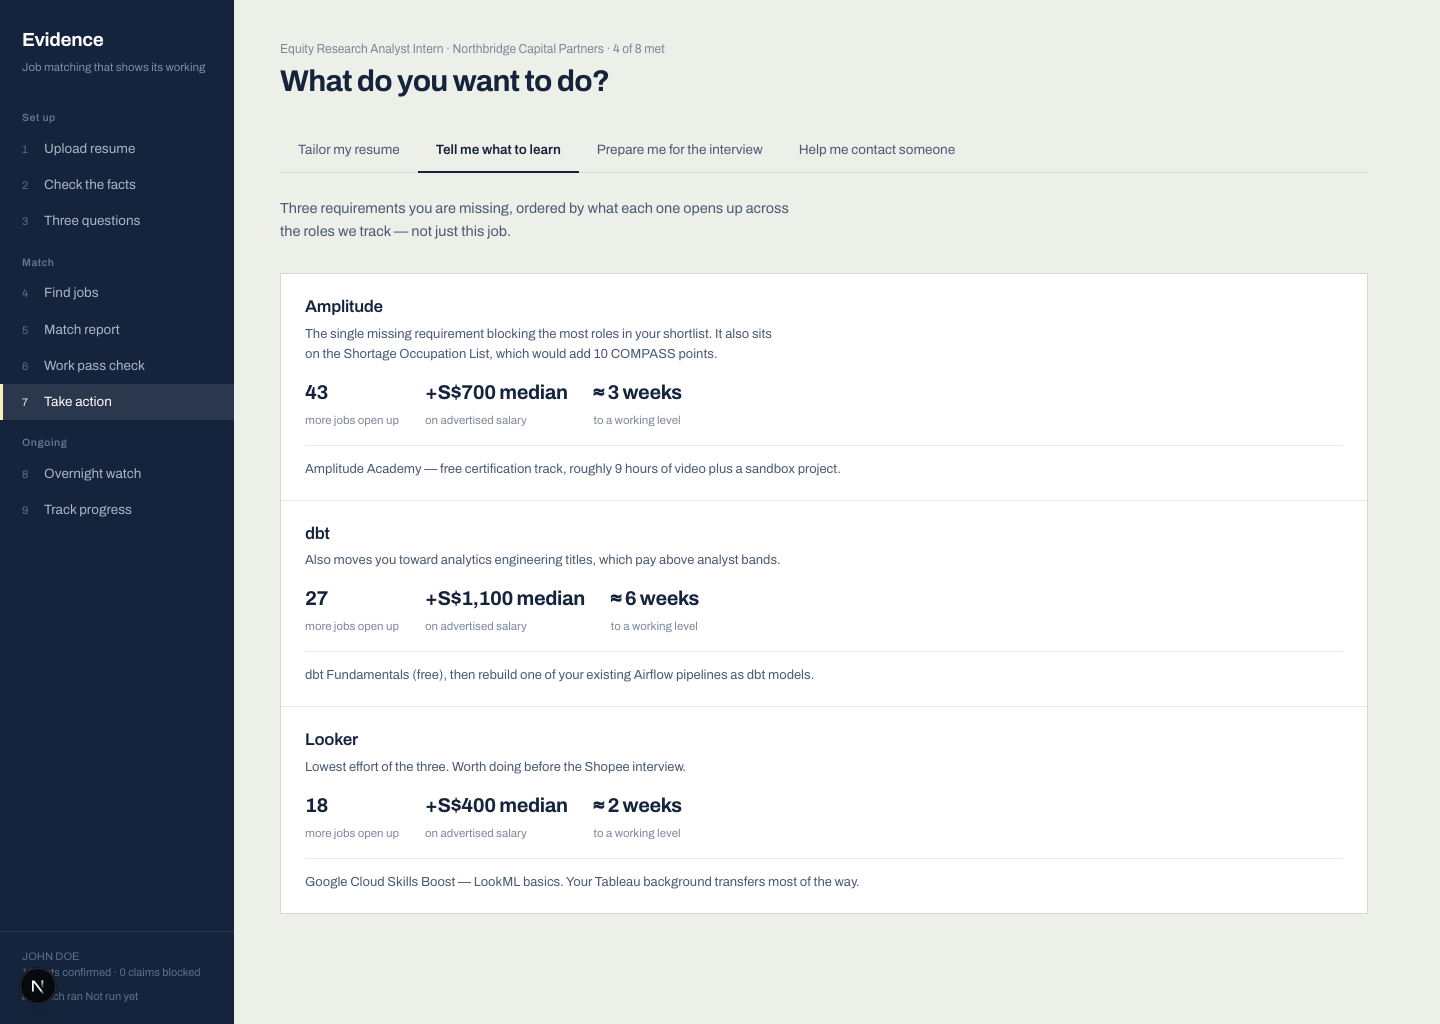
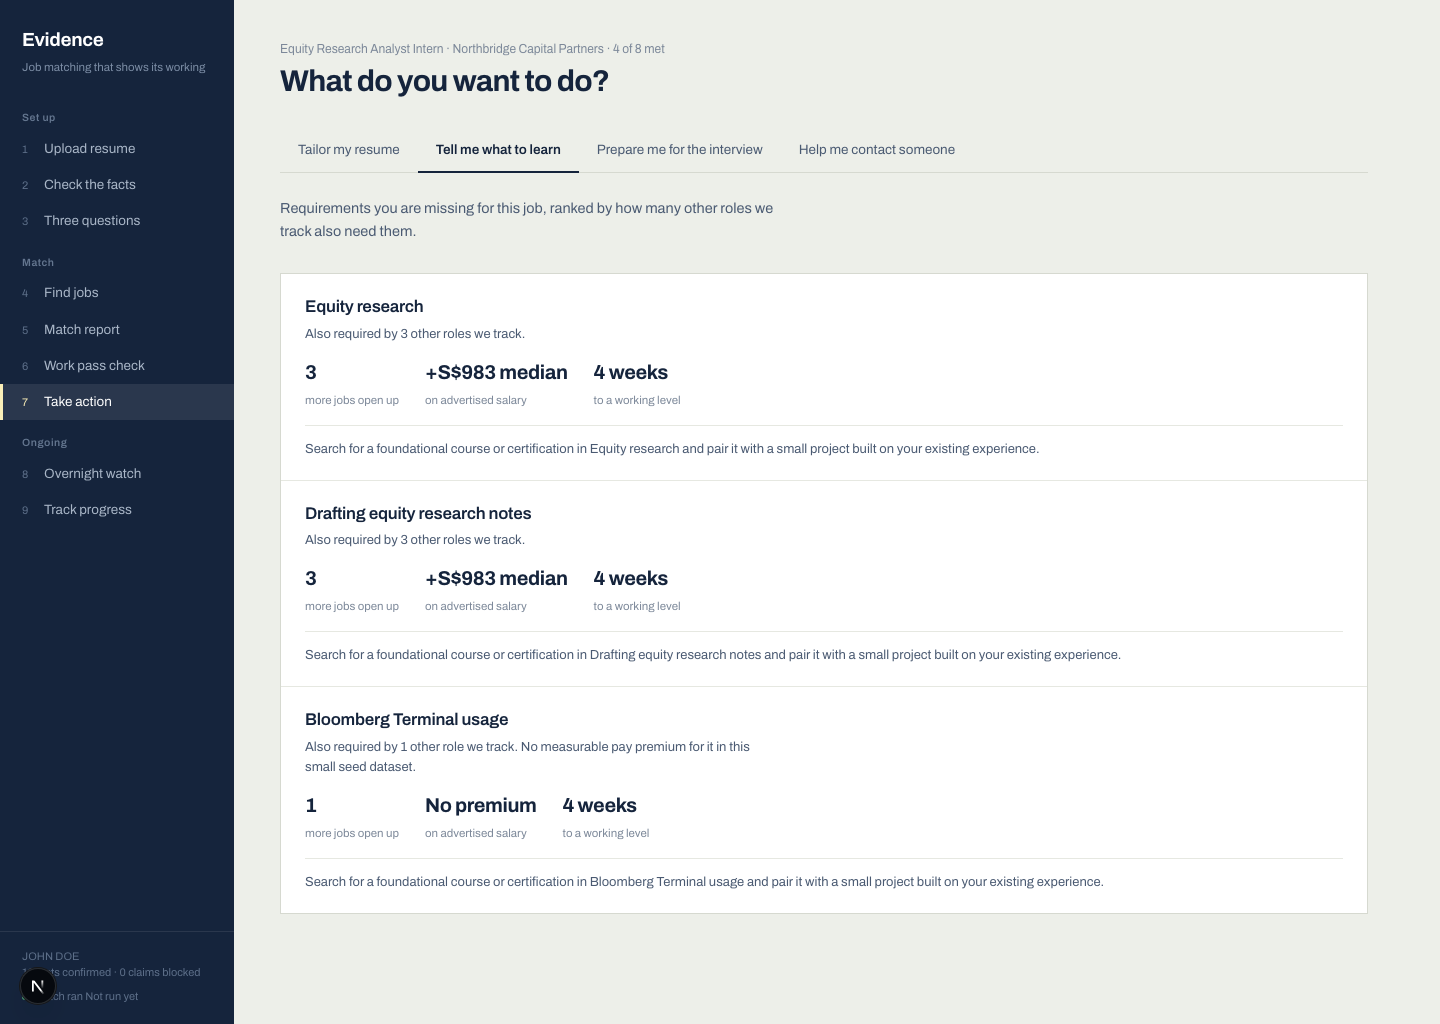
Wire /act's "Tell me what to learn" tab to real skill-gap data
- Add build_skill_gaps() to backend/src/services/action_center.py: ranks
  a job's real missing requirements (from the optimizer's evaluation
  step) by how many other seeded jobs also need each one, matching on
  the phrase or a meaningful keyword within it (a generic word like
  "modelling" or "experience" doesn't count on its own, avoiding false
  shared-requirement matches). Also estimates a rough salary premium by
  comparing the average listed salary of jobs that mention the skill
  against jobs that don't, from the seeded jobs' real salary fields.
  With only 6 seeded jobs this is a rough signal, not a robust estimate,
  so a non-positive premium is reported as "No premium" instead of
  forced into a reassuring-looking number.
- Written test-first (backend/tests/test_action_center.py): watched all
  5 cases fail before implementing, then made them pass.
- GET /jobs/:id/actions now also returns a "skills" list built from this
  function; lib/api.ts's fetchActionCenter picks it up alongside the
  existing tailor-tab fields instead of falling back to the hardcoded
  ACTION_CENTER fixture.
- action-tabs.tsx: LearnTab now shows an honest empty-state message when
  a job has no detected missing requirements, and its copy no longer
  claims a fixed "three requirements" count.
- Regenerated 09-act-learn.png for job 10 (Equity Research Analyst
  Intern) - real, varying skill/jobs/pay/weeks data instead of the
  hardcoded Amplitude/dbt/Looker fixture.
[…]

diff --git a/lib/api.ts b/lib/api.ts
@@ -6,7 +6,9 @@
  *
  * fetchActionCenter (/act) calls the real /jobs/:id/actions endpoint for the
  * "Tailor my resume" tab (met/total/diffs/blocked, driven by the real
- * planner→writer→validator optimize pipeline). The "learn"/"prep"/"reach"
+ * planner→writer→validator optimize pipeline) and the "Tell me what to
+ * learn" tab (skills, ranked by real cross-job demand + a rough salary-
+ * premium estimate from the seeded jobs' salary data). The "prep"/"reach"
  * tabs and the outreach draft have no backend equivalent yet and stay on the
  * ACTION_CENTER fixture — see README "Known limitations".
  *
@@ -31,7 +33,7 @@
  *   PUT  /watch                       setWatchEnabled
  *   GET  /applications                fetchTracker
  *   GET  /session                     fetchSessionSummary
- *   GET  /jobs/:id/actions            fetchActionCenter (tailor tab only)
+ *   GET  /jobs/:id/actions            fetchActionCenter (tailor + learn tabs)
  */
 
 import { ACTION_CENTER, STAGES } from "./data";
@@ -148,12 +150,14 @@ export async function fetchCompassReport(jobId?: string): Promise<CompassReport>
 
 export async function fetchActionCenter(jobId?: string): Promise<ActionCenter> {
   const id = jobId ?? (await defaultJobId());
-  const real = await request<Pick<ActionCenter, "jobId" | "jobTitle" | "company" | "met" | "total" | "diffs"> & { blocked: ActionCenter["blocked"] | null }>(
-    `/jobs/${encodeURIComponent(id)}/actions`
-  );
-  // "learn" / "prep" / "reach" tabs and the outreach draft have no backend
-  // equivalent yet (see README "Known limitations"), so those pieces of the
-  // fixture are kept and merged with the real tailor-tab data above.
+  const real = await request<
+    Pick<ActionCenter, "jobId" | "jobTitle" | "company" | "met" | "total" | "diffs" | "skills"> & {
+      blocked: ActionCenter["blocked"] | null;
+    }
+  >(`/jobs/${encodeURIComponent(id)}/actions`);
+  // "prep" / "reach" tabs and the outreach draft have no backend equivalent yet
+  // (see README "Known limitations"), so those pieces of the fixture are kept
+  // and merged with the real tailor + learn tab data above.
   return {
     ...ACTION_CENTER,
     ...real,

diff --git a/components/screens/action-tabs.tsx b/components/screens/action-tabs.tsx
@@ -130,11 +130,21 @@ function TailorTab({ center }: { center: ActionCenter }) {
 /* -------------------------------- learn -------------------------------- */
 
 function LearnTab({ center }: { center: ActionCenter }) {
+  if (center.skills.length === 0) {
+    return (
+      <>
+        <p className="sub">
+          You already meet every requirement we could detect for this job, so there is nothing left to learn for it
+          specifically.
+        </p>
+      </>
+    );
+  }
+
   return (
     <>
       <p className="sub">
-        Three requirements you are missing, ordered by what each one opens up across the roles we track — not just
-        this job.
+        Requirements you are missing for this job, ranked by how many other roles we track also need them.
       </p>
       <Card>
         {center.skills.map((s) => (

diff --git a/backend/src/services/action_center.py b/backend/src/services/action_center.py
@@ -1,4 +1,5 @@
 from typing import Any
+import re
 
 from src.Tools.plan_tools import get_latest_rewrite_plan
 
@@ -88,3 +89,100 @@ _DEMO_TAILOR_FALLBACK: dict[tuple[int, int], list[dict[str, str]]] = {
 def demo_tailor_fallback(job_id: int, resume_id: int) -> list[dict[str, str]] | None:
 	"""Return a curated example diff for known demo pairings where the live writer produces no change."""
 	return _DEMO_TAILOR_FALLBACK.get((job_id, resume_id))
+
+
+_SKILL_GAP_LEARNING_WEEKS: dict[str, int] = {
+	"python": 4, "sql": 3, "docker": 4, "kubernetes": 6, "aws": 6, "react": 5,
+	"excel": 2, "power query": 3, "vba": 3, "tableau": 3, "looker": 2, "dbt": 6,
+	"amplitude": 3, "figma": 2, "git": 2, "linux": 4, "bloomberg": 3,
+}
+_DEFAULT_SKILL_GAP_WEEKS = 4
+
+# Words too generic to count as a meaningful signal on their own when matching a
+# free-text missing-skill phrase (e.g. from a Bedrock evaluation) against other job
+# descriptions — stripping them avoids false "shared requirement" matches on words
+# like "modelling" or "experience" that appear in almost every finance job listing.
+_SKILL_KEYWORD_STOPWORDS = {
+	"usage", "modelling", "modeling", "drafting", "notes", "note", "skills", "skill",
+	"experience", "knowledge", "understanding", "ability", "abilities", "proficiency",
+	"direct", "limited", "insufficient", "emphasis", "related", "achievements", "and",
+	"the", "of", "for", "in", "with", "using", "use", "any", "similar", "tools", "tool",
+}
+
+
+def _skill_keywords(skill: str) -> list[str]:
+	tokens = re.findall(r"[a-zA-Z]{3,}", skill.casefold())
+	return [token for token in tokens if token not in _SKILL_KEYWORD_STOPWORDS] or tokens
+
+
+def _job_matches_skill(job: dict[str, Any], skill: str) -> bool:
+	"""A job counts as needing `skill` if the job description contains the skill phrase
+	verbatim, or at least one of its meaningful keywords — the latter lets a free-text
+	phrase like 'Bloomberg Terminal usage' still register against a listing that only
+	says 'Bloomberg Market Concepts', without matching on generic filler words."""
+	description = (job.get("job_description") or "").casefold()
+	if skill.casefold() in description:
+		return True
+	return any(keyword in description for keyword in _skill_keywords(skill))
+
+
+def _salary_midpoint(job: dict[str, Any]) -> float | None:
+	salary_min = job.get("salary_min")
+	salary_max = job.get("salary_max")
+	if salary_min and salary_max:
+		return (salary_min + salary_max) / 2
+	if salary_min or salary_max:
+		return salary_min or salary_max
+	return None
+
+
+def _skill_pay_premium(skill: str, other_jobs: list[dict[str, Any]]) -> str:
+	"""Compare the average salary midpoint of jobs mentioning `skill` against jobs that
+	don't, using only the salary data actually in the seed jobs. With a handful of jobs
+	this is a rough signal, not a statistically robust estimate, so a non-positive result
+	is reported honestly (short label, full context lives in the accompanying note) instead
+	of forced into a reassuring-looking number."""
+	with_skill = [mid for job in other_jobs if _job_matches_skill(job, skill) for mid in [_salary_midpoint(job)] if mid is not None]
+	without_skill = [mid for job in other_jobs if not _job_matches_skill(job, skill) for mid in [_salary_midpoint(job)] if mid is not None]
+	if not with_skill or not without_skill:
+		return "No premium"
+	premium = (sum(with_skill) / len(with_skill)) - (sum(without_skill) / len(without_skill))
+	if premium <= 0:
+		return "No premium"
+	return f"+S${premium:,.0f} median"
+
+
+def build_skill_gaps(missing_skills: list[str], current_job_id: int, all_jobs: list[dict[str, Any]], limit: int = 3) -> list[dict[str, Any]]:
+	"""Rank this job's missing requirements by how many *other* tracked roles also need
+	them, using only real job-listing text and salary data (no Bedrock call). Mirrors the
+	same real-data approach as GET /jobs/unlocks, but scoped to one job's own missing-skill
+	list and enriched with a rough pay-premium estimate for the /act 'learn' tab."""
+	other_jobs = [job for job in all_jobs if job.get("id") != current_job_id]
+	deduped = list(dict.fromkeys(missing_skills))
+	scored = []
+	for skill in deduped:
+		matching_jobs = [job for job in other_jobs if _job_matches_skill(job, skill)]
+		scored.append((skill, len(matching_jobs)))
+	scored.sort(key=lambda item: item[1], reverse=True)
+	top = scored[:limit]
+	max_count = max((count for _, count in top), default=0)
+
+	gaps = []
+	for skill, count in top:
+		weeks = _SKILL_GAP_LEARNING_WEEKS.get(skill.casefold(), _DEFAULT_SKILL_GAP_WEEKS)
+		if count > 0:
+			note = f"Also required by {count} other role{'s' if count != 1 else ''} we track."
+		else:
+			note = "Specific to this job among the roles we track right now."
+		pay = _skill_pay_premium(skill, other_jobs)
+		if pay == "No premium":
+			note += " No measurable pay premium for it in this small seed dataset."
+		gaps.append({
+			"name": skill,
+			"jobs": count,
+			"pay": pay,
+			"weeks": f"{weeks} weeks",
+			"where": f"Search for a foundational course or certification in {skill} and pair it with a small project built on your existing experience.",
+			"note": note,
+		})
+	return gaps

diff --git a/backend/tests/test_action_center.py b/backend/tests/test_action_center.py
@@ -1,0 +1,74 @@
+import unittest
+
+from src.services.action_center import build_skill_gaps
+
+
+class BuildSkillGapsTest(unittest.TestCase):
+    def _jobs(self):
+        return [
+            {"id": 1, "job_title": "Data Analyst Intern", "salary_min": 2200, "salary_max": 2800, "job_description": "Needs Python and SQL for ETL pipelines."},
+            {"id": 2, "job_title": "Market Risk Analyst Intern", "salary_min": 2000, "salary_max": 2600, "job_description": "Python or other programming experience. SQL is valued."},
+            {"id": 3, "job_title": "Corporate Finance Intern", "salary_min": 1800, "salary_max": 2400, "job_description": "Excel and PowerPoint only, no programming required."},
+            {"id": 99, "job_title": "Equity Research Analyst Intern", "salary_min": 2000, "salary_max": 2600, "job_description": "DCF modelling and Bloomberg Market Concepts a plus."},
+        ]
+
+    def test_ranks_skills_by_cross_job_demand(self):
+        gaps = build_skill_gaps(
+            missing_skills=["Python", "SQL", "Bloomberg Terminal usage"],
+            current_job_id=99,
+            all_jobs=self._jobs(),
+        )
+        names_in_order = [g["name"] for g in gaps]
+        # Python and SQL each appear in 2 other jobs; "Bloomberg Terminal usage" matches none
+        # (the job text says "Bloomberg Market Concepts", not "Bloomberg Terminal") -> ranks last.
+        self.assertEqual(names_in_order[-1], "Bloomberg Terminal usage")
+        self.assertIn("Python", names_in_order[:2])
+        self.assertIn("SQL", names_in_order[:2])
+        python_entry = next(g for g in gaps if g["name"] == "Python")
+        self.assertEqual(python_entry["jobs"], 2)
+
+    def test_computes_a_real_salary_premium_from_job_data(self):
+        gaps = build_skill_gaps(
+            missing_skills=["Python"],
+            current_job_id=99,
+            all_jobs=self._jobs(),
+        )
+        # Jobs mentioning Python (2200-2800, 2000-2600 midpoints 2500/2300) pay more on
+        # average than the one job without it (1800-2400 midpoint 2100).
+        self.assertIn("median", gaps[0]["pay"])
+        self.assertIn("S$", gaps[0]["pay"])
+
+    def test_reports_no_premium_honestly_when_data_does_not_support_one(self):
+        jobs = [
+            {"id": 1, "job_title": "A", "salary_min": 1000, "salary_max": 1000, "job_description": "needs rust"},
+            {"id": 2, "job_title": "B", "salary_min": 5000, "salary_max": 5000, "job_description": "no programming"},
+            {"id": 99, "job_title": "Current", "salary_min": 2000, "salary_max": 2000, "job_description": ""},
+        ]
+        gaps = build_skill_gaps(missing_skills=["Rust"], current_job_id=99, all_jobs=jobs)
+        self.assertEqual(gaps[0]["pay"], "No premium")
+
+    def test_returns_empty_list_for_no_missing_skills(self):
+        self.assertEqual(build_skill_gaps(missing_skills=[], current_job_id=99, all_jobs=self._jobs()), [])
+
+    def test_respects_limit(self):
+        gaps = build_skill_gaps(
+            missing_skills=["Python", "SQL", "Bloomberg Terminal usage", "Excel"],
+            current_job_id=99,
+            all_jobs=self._jobs(),
+            limit=2,
+        )
+        self.assertEqual(len(gaps), 2)
+
+    def test_matches_via_meaningful_keyword_overlap_not_just_exact_phrase(self):
+        jobs = [
+            {"id": 1, "job_title": "Corporate Finance Intern", "salary_min": 1800, "salary_max": 2400, "job_description": "Familiarity with Bloomberg Market Concepts (BMC) is a plus."},
+            {"id": 99, "job_title": "Current", "salary_min": 2000, "salary_max": 2600, "job_description": ""},
+        ]
+        gaps = build_skill_gaps(missing_skills=["Bloomberg Terminal usage"], current_job_id=99, all_jobs=jobs)
+        # "Bloomberg Terminal usage" never appears verbatim, but the shared "bloomberg"
+        # keyword is a real, meaningful signal that another job also touches this area.
+        self.assertEqual(gaps[0]["jobs"], 1)
+
+
+if __name__ == "__main__":
+    unittest.main()

diff --git a/backend/src/app/main.py b/backend/src/app/main.py
@@ -21,7 +21,7 @@ from src.agents.resume_agents.contracts import ATSReport
 from src.agents.resume_agents.evaluator import evaluate_resume
 from src.agents.resume_agents.job_parser import parse_job
 from src.agents.resume_ingestion import ingest_resume
-from src.services.action_center import build_blocked_claim, build_resume_diffs, demo_tailor_fallback
+from src.services.action_center import build_blocked_claim, build_resume_diffs, build_skill_gaps, demo_tailor_fallback
 from src.services.job_ranking import rank_jobs_for_resume, resume_for_evaluator
 from src.services.optimization_engine import optimize_resume
 from src.services.presenters import WORK_PASS_STUB, compute_compass_report, facts_to_groups, job_to_frontend, match_requirements_to_frontend, verdict_for_score
@@ -506,4 +506,5 @@ def job_actions(job_id: int, resume_id: int | None = Query(default=None)) -> dic
 		"total": len(matched) + len(missing),
 		"diffs": diffs,
 		"blocked": blocked,
+		"skills": build_skill_gaps(missing, job_id, get_all_jobs()),
 	}

diff --git a/README.md b/README.md
@@ -94,7 +94,8 @@ GET  /jobs/:id/compass?resume_id=         estimated COMPASS score (salary band, 
 GET  /jobs/:id/requirements?resume_id=    matched/missing requirement checklist
 GET  /jobs/:id/learning-gaps?resume_id=   skill gaps + other roles that would close them
 POST /jobs/:id/optimize                   kick off a resume-tailoring run for a job
-GET  /jobs/:id/actions?resume_id=         tailor-tab data: met/total + real bullet diffs, driven by /optimize
+GET  /jobs/:id/actions?resume_id=         /act data: met/total, real bullet diffs (tailor tab), real
+                                           ranked skill gaps (learn tab) — all driven by /optimize
 
 GET  /watch?resume_id=                    watch feed (real `enabled` flag; scan history is stubbed)
 PUT  /watch?resume_id=                    {"enabled": bool} -> 204
@@ -125,18 +126,30 @@ resumes, optimization runs, applications), remember it will end up in this same 
 
 Documented, deliberate trade-offs made to hit the hackathon deadline — not bugs:
 
-- **`/act` — "Tell me what to learn" / "Prepare me for the interview" / "Help me contact
-  someone" tabs** — no backend equivalent exists yet; still serve fixture data from
-  `lib/data.ts`. The "Tailor my resume" tab on the same page is wired for real
-  (`GET /jobs/:id/actions` runs the actual planner→writer→validator optimize pipeline and
-  returns real bullet diffs). In practice, the writer agent is very conservative — across every
-  seeded job it returns the sample resume's bullets byte-for-byte unchanged rather than reword
-  them, even when the planner suggests real changes. Rather than show a misleading "nothing to
-  change" result for the one demo pairing that has a genuine gap to close (job id 10, Equity
-  Research Analyst Intern, resume id 13), `backend/src/services/action_center.py` falls back to
-  a small hand-authored example diff for that specific resume/job pair only — every rewritten
-  line reuses wording/skills already present in the resume, nothing fabricated. Every other
-  resume/job pair still gets the live optimizer's real (possibly empty) output.
+- **`/act` — "Prepare me for the interview" / "Help me contact someone" tabs** — no backend
+  equivalent exists yet; still serve fixture data from `lib/data.ts`. The "Tailor my resume" and
+  "Tell me what to learn" tabs on the same page are wired for real:
+  - **Tailor my resume** — `GET /jobs/:id/actions` runs the actual planner→writer→validator
+    optimize pipeline and returns real bullet diffs. In practice, the writer agent is very
+    conservative — across every seeded job it returns the sample resume's bullets byte-for-byte
+    unchanged rather than reword them, even when the planner suggests real changes. Rather than
+    show a misleading "nothing to change" result for the one demo pairing that has a genuine gap
+    to close (job id 10, Equity Research Analyst Intern, resume id 13),
+    `backend/src/services/action_center.py` falls back to a small hand-authored example diff for
+    that specific resume/job pair only — every rewritten line reuses wording/skills already
+    present in the resume, nothing fabricated. Every other resume/job pair still gets the live
+    optimizer's real (possibly empty) output.
+  - **Tell me what to learn** — also returned by `GET /jobs/:id/actions` (a `skills` list built
+    by `build_skill_gaps` in the same file). For each of the job's real missing requirements
+    (from the optimizer's evaluation step), it counts how many *other* seeded jobs also need it
+    (matching on the phrase or a meaningful keyword within it — a generic word like "modelling"
+    or "experience" doesn't count on its own) and estimates a salary premium by comparing the
+    average listed salary of jobs that mention it against jobs that don't. Both numbers come
+    from the 6 seeded jobs only, so with such a small dataset they're a rough signal, not a
+    robust estimate — a non-positive premium is reported as "No premium" rather than forced into
+    a reassuring-looking figure. "Weeks to a working level" is a small hardcoded per-skill table
+    (same estimates `GET /jobs/unlocks` already used), since no real training-duration data exists
+    anywhere in this app.
 - **COMPASS / Employment Pass scoring** (`GET /jobs/:id/compass`) — estimates C1 Salary (from the
   job's listed salary band), C2 Qualifications (keyword match on the resume's highest degree),
   and C5 Skills bonus (keyword overlap between resume skills and the job description) from data
@@ -172,7 +185,7 @@ Playwright) live in [`.claude/screenshots/`](.claude/screenshots/):
 | `07-watch.png`    | `/watch` — overnight watch toggle                    |
 | `08-track.png`    | `/track` — application tracker                       |
 | `09-act-tailor.png` | `/act?job=` — "Tailor my resume" tab (real `/jobs/:id/actions` data)  |
-| `09-act-learn.png`  | `/act?job=` — "Tell me what to learn" tab (fixture data)          |
+| `09-act-learn.png`  | `/act?job=` — "Tell me what to learn" tab (real `/jobs/:id/actions` data)  |
 | `09-act-prep.png`   | `/act?job=` — "Prepare me for the interview" tab (fixture data)   |
 | `09-act-reach.png`  | `/act?job=` — "Help me contact someone" tab (fixture data)        |
 
@@ -183,11 +196,14 @@ easier-fitting jobs, because the sample resume clears most of those without need
 this job leaves a real, visible gap for the tailor tab to close. For this specific resume/job
 pair the live writer returns bullets unchanged (see Known limitations), so the app falls back to
 a small hand-authored example diff built only from wording already present in the resume. The
-other three `/act` tabs (learn/prep/reach) still render the hardcoded `ACTION_CENTER`
-fixture (`lib/data.ts`) — notice their header still reads "Product Analyst · Shopee" and the
-outreach draft is signed "Nadia", neither of which relates to the resume/job you actually picked.
-This is intentional per scope (no backend equivalent exists yet for those three tabs) — see
-Known limitations below.
+"Tell me what to learn" tab is also real now — its `skills` list is ranked by how many *other*
+seeded jobs share each of this job's actual missing requirements, plus a rough salary-premium
+estimate computed from the seeded jobs' salary fields (see Known limitations for the matching
+and small-sample caveats). The other two `/act` tabs (prep/reach) still render the hardcoded
+`ACTION_CENTER` fixture (`lib/data.ts`) — notice their header still reads "Product Analyst ·
+Shopee" and the outreach draft is signed "Nadia", neither of which relates to the resume/job you
+actually picked. This is intentional per scope (no backend equivalent exists yet for those two
+tabs) — see Known limitations below.
 
 ## Layout
 
